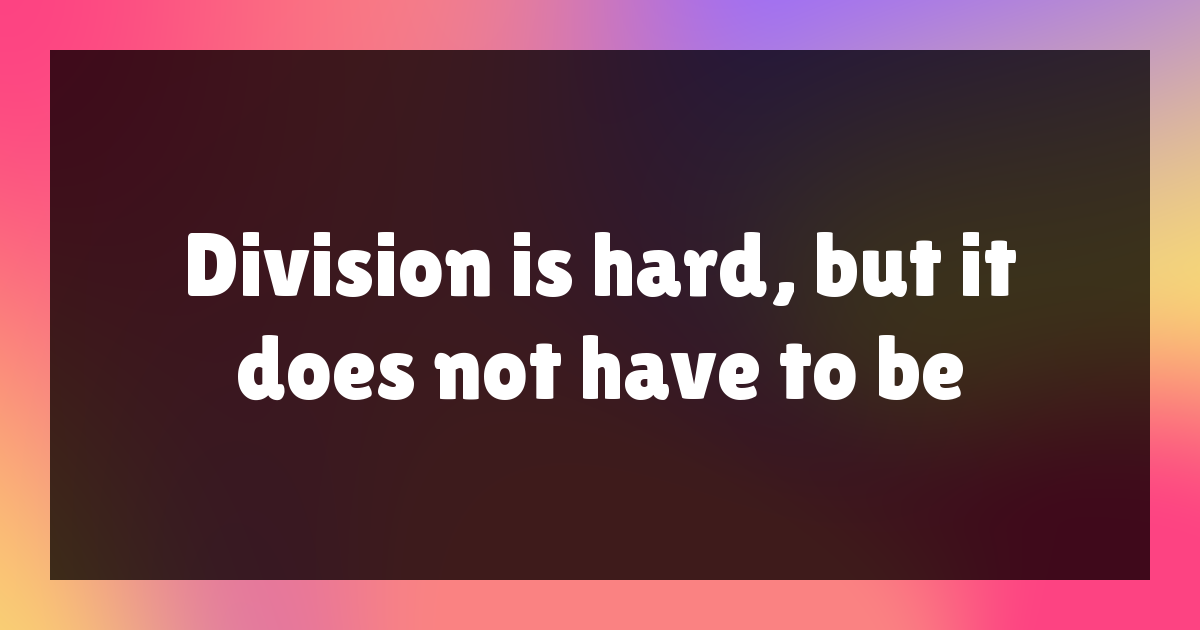
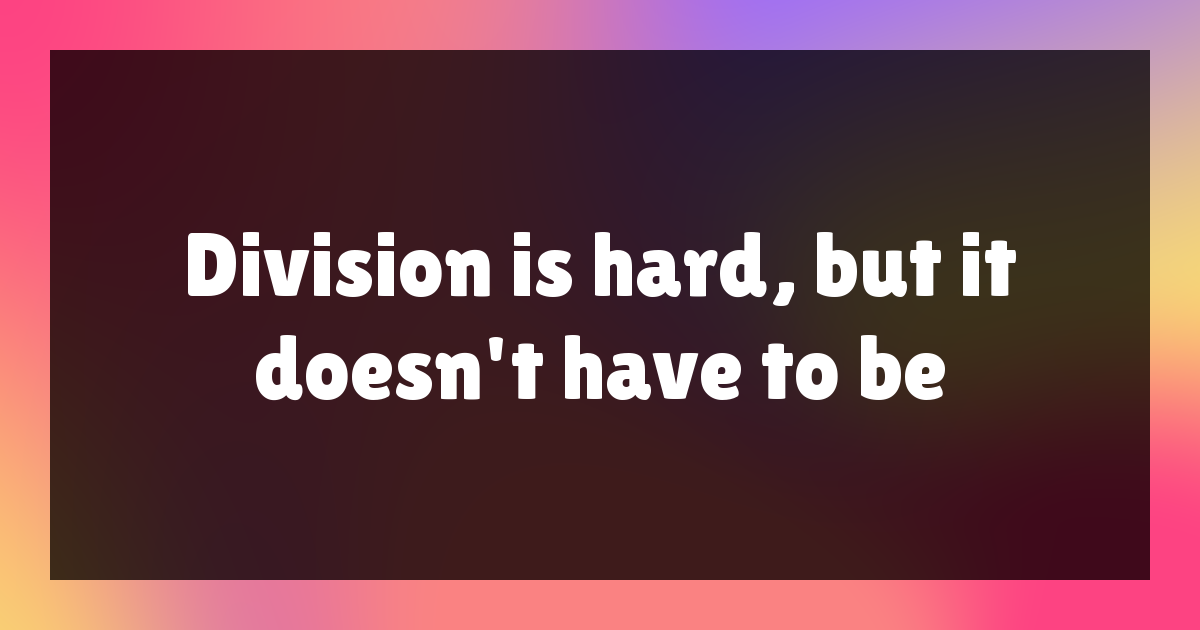
Title

Changed region(s): [[0.185, 0.5127, 0.8017, 0.6333]]

diff --git a/blog/division-is-hard-but-it-does-not-have-to-be/index.html b/blog/division-is-hard-but-it-does-not-have-to-be/index.html
@@ -1,4 +1,4 @@
-<!doctypehtml><html prefix="og: http://ogp.me/ns#"lang=en_US><meta charset=utf-8><meta content=width=device-width,initial-scale=1 name=viewport><title>Division is hard, but it does not have to be | purplesyringa's blog</title><link href=../../all.css rel=stylesheet><link href=../../blog.css rel=stylesheet><link href=../../vendor/Temml-Local.css rel=stylesheet><link crossorigin href=https://fonts.googleapis.com/css2?family=Noto+Sans:ital,wght@0,100..900;1,100..900&family=Roboto+Mono:ital,wght@0,100..700;1,100..700&family=Roboto:ital,wght@0,400;0,700;1,400;1,700&family=Slabo+27px&display=swap rel=stylesheet><link href=../../fonts/webfont.css rel=stylesheet><link media="screen and (prefers-color-scheme: dark"href=../../vendor/atom-one-dark.min.css rel=stylesheet><link media="screen and (prefers-color-scheme: light"href=../../vendor/atelier-cave-light.min.css rel=stylesheet><link title="Blog posts"href=../../blog/feed.rss rel=alternate type=application/rss+xml><meta content="Division is hard, but it does not have to be"property=og:title><meta content=article property=og:type><meta content=https://purplesyringa.moe/blog/division-is-hard-but-it-does-not-have-to-be/og.png property=og:image><meta content=https://purplesyringa.moe/blog/division-is-hard-but-it-does-not-have-to-be/ property=og:url><meta content=dasdasdas. property=og:description><meta content=en_US property=og:locale><meta content="purplesyringa's blog"property=og:site_name><meta content=summary_large_image name=twitter:card><meta content=https://purplesyringa.moe/blog/division-is-hard-but-it-does-not-have-to-be/og.png name=twitter:image><script data-website-id=0da1961d-43f2-45cc-a8e2-75679eefbb69 defer src=https://zond.tei.su/script.js></script><body><header><div class=viewport-container><div class=media><a href=https://github.com/purplesyringa><img src=../../images/github-mark-white.svg></a></div><h1><a href=/>purplesyringa</a></h1><nav><a href=../..>about</a><a class=current href=../../blog/>blog</a><a href=../../sink/>kitchen sink</a></nav></div></header><section><div class=viewport-container><h2>Division is hard, but it does not have to be</h2><time>August 24, 2024</time><p>Developers don’t usually divide numbers all the time, but hashmaps often need to compute <a href=https://en.wikipedia.org/wiki/Remainder>remainders</a> modulo a prime. Hashmaps are really common, so fast division is useful.<p>For instance, rolling hashes might compute <code>u128 % u64</code> with a fixed divisor. Compilers just drop the ball here:<pre><code class=language-rust><span class=hljs-keyword>fn</span> <span class="hljs-title function_">modulo</span>(n: <span class=hljs-type>u128</span>) <span class=hljs-punctuation>-></span> <span class=hljs-type>u64</span> {
+<!doctypehtml><html prefix="og: http://ogp.me/ns#"lang=en_US><meta charset=utf-8><meta content=width=device-width,initial-scale=1 name=viewport><title>Division is hard, but it doesn't have to be | purplesyringa's blog</title><link href=../../all.css rel=stylesheet><link href=../../blog.css rel=stylesheet><link href=../../vendor/Temml-Local.css rel=stylesheet><link crossorigin href=https://fonts.googleapis.com/css2?family=Noto+Sans:ital,wght@0,100..900;1,100..900&family=Roboto+Mono:ital,wght@0,100..700;1,100..700&family=Roboto:ital,wght@0,400;0,700;1,400;1,700&family=Slabo+27px&display=swap rel=stylesheet><link href=../../fonts/webfont.css rel=stylesheet><link media="screen and (prefers-color-scheme: dark"href=../../vendor/atom-one-dark.min.css rel=stylesheet><link media="screen and (prefers-color-scheme: light"href=../../vendor/atelier-cave-light.min.css rel=stylesheet><link title="Blog posts"href=../../blog/feed.rss rel=alternate type=application/rss+xml><meta content="Division is hard, but it doesn't have to be"property=og:title><meta content=article property=og:type><meta content=https://purplesyringa.moe/blog/division-is-hard-but-it-does-not-have-to-be/og.png property=og:image><meta content=https://purplesyringa.moe/blog/division-is-hard-but-it-does-not-have-to-be/ property=og:url><meta content=dasdasdas. property=og:description><meta content=en_US property=og:locale><meta content="purplesyringa's blog"property=og:site_name><meta content=summary_large_image name=twitter:card><meta content=https://purplesyringa.moe/blog/division-is-hard-but-it-does-not-have-to-be/og.png name=twitter:image><script data-website-id=0da1961d-43f2-45cc-a8e2-75679eefbb69 defer src=https://zond.tei.su/script.js></script><body><header><div class=viewport-container><div class=media><a href=https://github.com/purplesyringa><img src=../../images/github-mark-white.svg></a></div><h1><a href=/>purplesyringa</a></h1><nav><a href=../..>about</a><a class=current href=../../blog/>blog</a><a href=../../sink/>kitchen sink</a></nav></div></header><section><div class=viewport-container><h2>Division is hard, but it doesn't have to be</h2><time>August 24, 2024</time><p>Developers don’t usually divide numbers all the time, but hashmaps often need to compute <a href=https://en.wikipedia.org/wiki/Remainder>remainders</a> modulo a prime. Hashmaps are really common, so fast division is useful.<p>For instance, rolling hashes might compute <code>u128 % u64</code> with a fixed divisor. Compilers just drop the ball here:<pre><code class=language-rust><span class=hljs-keyword>fn</span> <span class="hljs-title function_">modulo</span>(n: <span class=hljs-type>u128</span>) <span class=hljs-punctuation>-></span> <span class=hljs-type>u64</span> {
     (n % <span class=hljs-number>0xffffffffffffffc5</span>) <span class=hljs-keyword>as</span> <span class=hljs-type>u64</span>
 }
 </code></pre><pre><code class=language-x86asm><span class=hljs-symbol>modulo:</span>

diff --git a/blog/division-is-hard-but-it-does-not-have-to-be/index.md b/blog/division-is-hard-but-it-does-not-have-to-be/index.md
@@ -1,5 +1,5 @@
 ---
-title: Division is hard, but it does not have to be
+title: Division is hard, but it doesn't have to be
 time: August 24, 2024
 intro: |
     dasdasdas.
